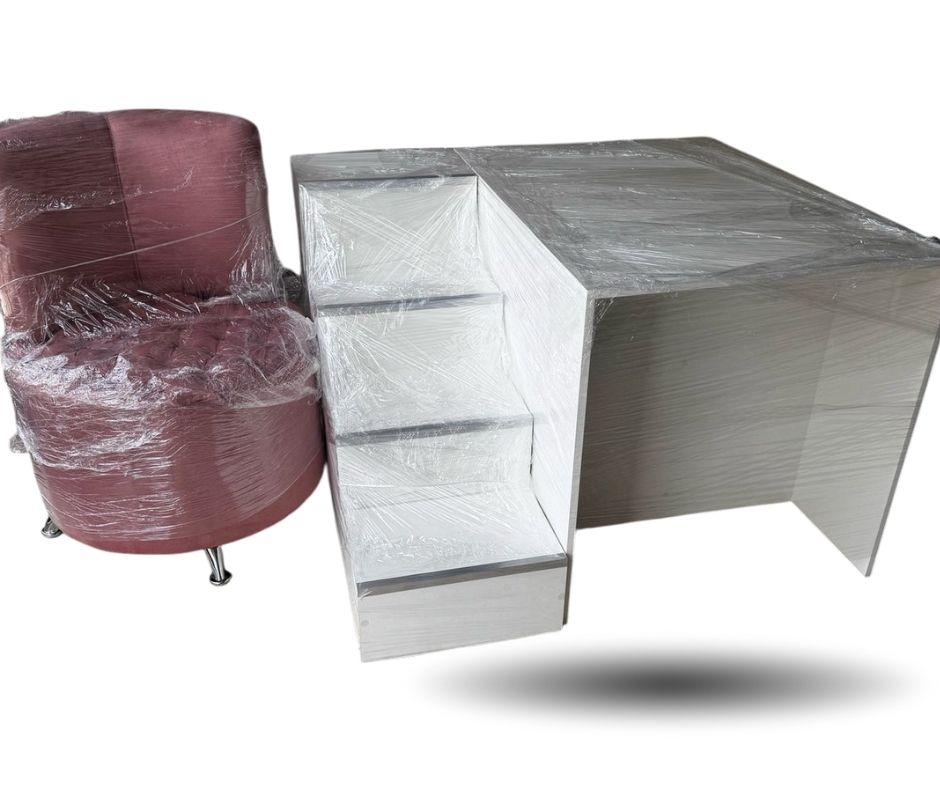
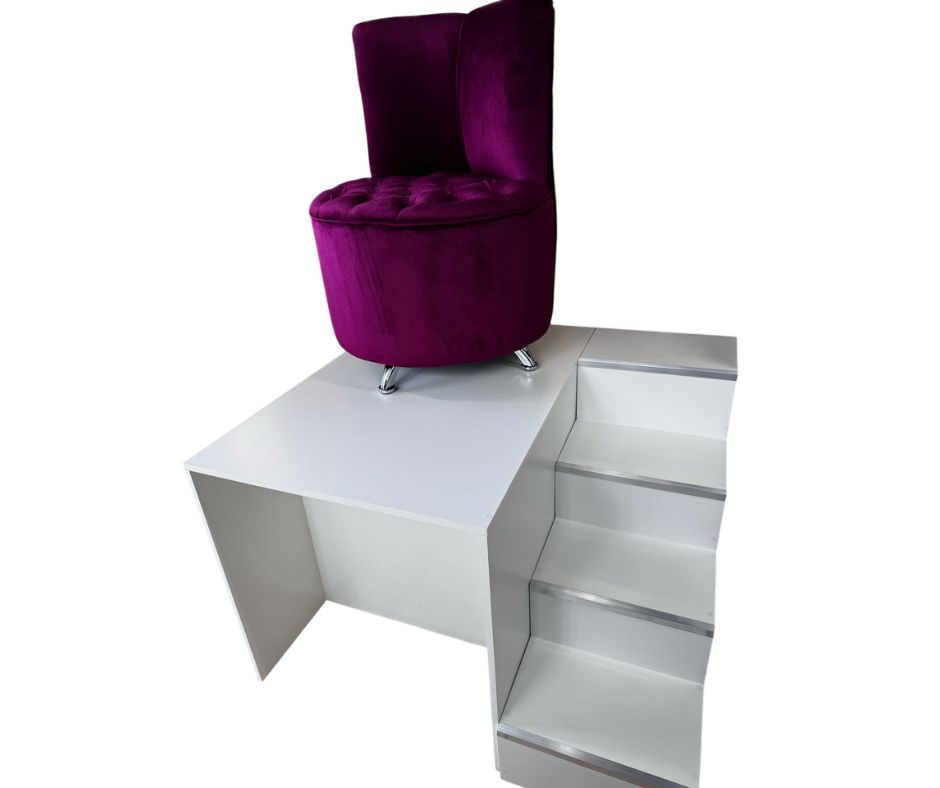
se agrego mas imagenes a img y se agrego en muebleria mas productos

diff --git a/muebleria.html b/muebleria.html
@@ -84,10 +84,10 @@
                 <button class="agregar-btn" onclick="agregarAlCarrito('Descansa Brazo Eco', 3000)">Agregar a lista</button>
             </div>
             <div class="producto">
-                <img src="img/MUEBLES/ESTACION PEDI GRANDE .jpg" alt="Estacion de Pedicura Grande" onclick="abrirModal(this.src)">
-                <p class="nombre-producto-texto">Estacion de Pedicura Grande</p>
-                <p class="precio-producto">₡180,000</p>
-                <button class="agregar-btn" onclick="agregarAlCarrito('Estacion de Pedicura Grande', 180000)">Agregar a lista</button>
+                <img src="img/MUEBLES/ESTACION GRANDE CON BUTACA.jpg" alt="Estacion Pedicura Grande" onclick="abrirModal(this.src)">
+                <p class="nombre-producto-texto">Estacion Pedicura Grande</p>
+                <p class="precio-producto">₡160,000</p>
+                <button class="agregar-btn" onclick="agregarAlCarrito('Estacion Pedicura Grande', 160000)">Agregar a lista</button>
             </div>
             <div class="producto">
                 <img src="img/MUEBLES/3.jpg" alt="Mesa Manicura Vidrio" onclick="abrirModal(this.src)">
@@ -149,7 +149,67 @@
                 <p class="precio-producto">₡50,000</p>
                 <button class="agregar-btn" onclick="agregarAlCarrito('Combo Manicura', 50000)">Agregar a lista</button>
             </div>
-            
+            <div class="producto">
+                <img src="img/MUEBLES/COMBO 65 MIL.jpg" alt="Combo Manicura" onclick="abrirModal(this.src)">
+                <p class="nombre-producto-texto">Combo Manicura</p>
+                <p class="precio-producto">₡65,000</p>
+                <button class="agregar-btn" onclick="agregarAlCarrito('Combo Manicura', 65000)">Agregar a lista</button>
+            </div>
+            <div class="producto">
+                <img src="img/MUEBLES/COMBO 70 MIL.jpg" alt="Combo Manicura" onclick="abrirModal(this.src)">
+                <p class="nombre-producto-texto">Combo Manicura</p>
+                <p class="precio-producto">₡70,000</p>
+                <button class="agregar-btn" onclick="agregarAlCarrito('Combo Manicura', 70000)">Agregar a lista</button>
+            </div>
+            <div class="producto">
+                <img src="img/MUEBLES/COMBO 65 MIL (2).jpg" alt="Combo Manicura" onclick="abrirModal(this.src)">
+                <p class="nombre-producto-texto">Combo Manicura</p>
+                <p class="precio-producto">₡60,000</p>
+                <button class="agregar-btn" onclick="agregarAlCarrito('Combo Manicura', 60000)">Agregar a lista</button>
+            </div>
+            <div class="producto">
+                <img src="img/MUEBLES/COMBO CON VIDRIO 100MIL.jpeg" alt="Combo Manicura Vidrio" onclick="abrirModal(this.src)">
+                <p class="nombre-producto-texto">Combo Manicura Vidrio</p>
+                <p class="precio-producto">₡100,000</p>
+                <button class="agregar-btn" onclick="agregarAlCarrito('Combo Manicura Vidrio', 100000)">Agregar a lista</button>
+            </div>
+            <div class="producto">
+                <img src="img/MUEBLES/COMBO SIN SILLA 75 MIL (1).jpeg" alt="Combo Manicura" onclick="abrirModal(this.src)">
+                <p class="nombre-producto-texto">Combo Manicura</p>
+                <p class="precio-producto">₡75,000</p>
+                <button class="agregar-btn" onclick="agregarAlCarrito('Combo Manicura', 75000)">Agregar a lista</button>
+            </div>
+            <div class="producto">
+                <img src="img/MUEBLES/COMBO 80 MIL .jpeg" alt="Combo Manicura" onclick="abrirModal(this.src)">
+                <p class="nombre-producto-texto">Combo Manicura</p>
+                <p class="precio-producto">₡80,000</p>
+                <button class="agregar-btn" onclick="agregarAlCarrito('Combo Manicura', 80000)">Agregar a lista</button>
+            </div>
+            <div class="producto">
+                <img src="img/MUEBLES/COMBO 100 SIN VIDRIO.jpeg" alt="Combo Manicura" onclick="abrirModal(this.src)">
+                <p class="nombre-producto-texto">Combo Manicura</p>
+                <p class="precio-producto">₡100,000</p>
+                <button class="agregar-btn" onclick="agregarAlCarrito('Combo Manicura', 100000)">Agregar a lista</button>
+            </div>
+            <div class="producto">
+                <img src="img/MUEBLES/CARRITO ORGANIZADOR .jpg" alt="Carrito Organizador" onclick="abrirModal(this.src)">
+                <p class="nombre-producto-texto">Carrito Organizador</p>
+                <p class="precio-producto">₡55,000</p>
+                <button class="agregar-btn" onclick="agregarAlCarrito('Carrito Organizador', 55000)">Agregar a lista</button>
+            </div>
+            <div class="producto">
+                <img src="img/MUEBLES/COMBO VIDRIO CON PUERTA 100 MIL .jpeg" alt="COMBO MESA CON PUERTA" onclick="abrirModal(this.src)">
+                <p class="nombre-producto-texto">COMBO MESA CON PUERTA</p>
+                <p class="precio-producto">₡100,000</p>
+                <button class="agregar-btn" onclick="agregarAlCarrito('COMBO MESA CON PUERTA', 100000)">Agregar a lista</button>
+            </div>
+            <div class="producto">
+                <img src="img/MUEBLES/MESA PROFESIONAL 200 MIL.jpeg" alt="MESA PROFESIONAL" onclick="abrirModal(this.src)">
+                <p class="nombre-producto-texto">MESA PROFESIONAL</p>
+                <p class="precio-producto">₡250,000</p>
+                <button class="agregar-btn" onclick="agregarAlCarrito('MESA PROFESIONAL', 250000)">Agregar a lista</button>
+            </div>
+
 
         </div>
     </div>